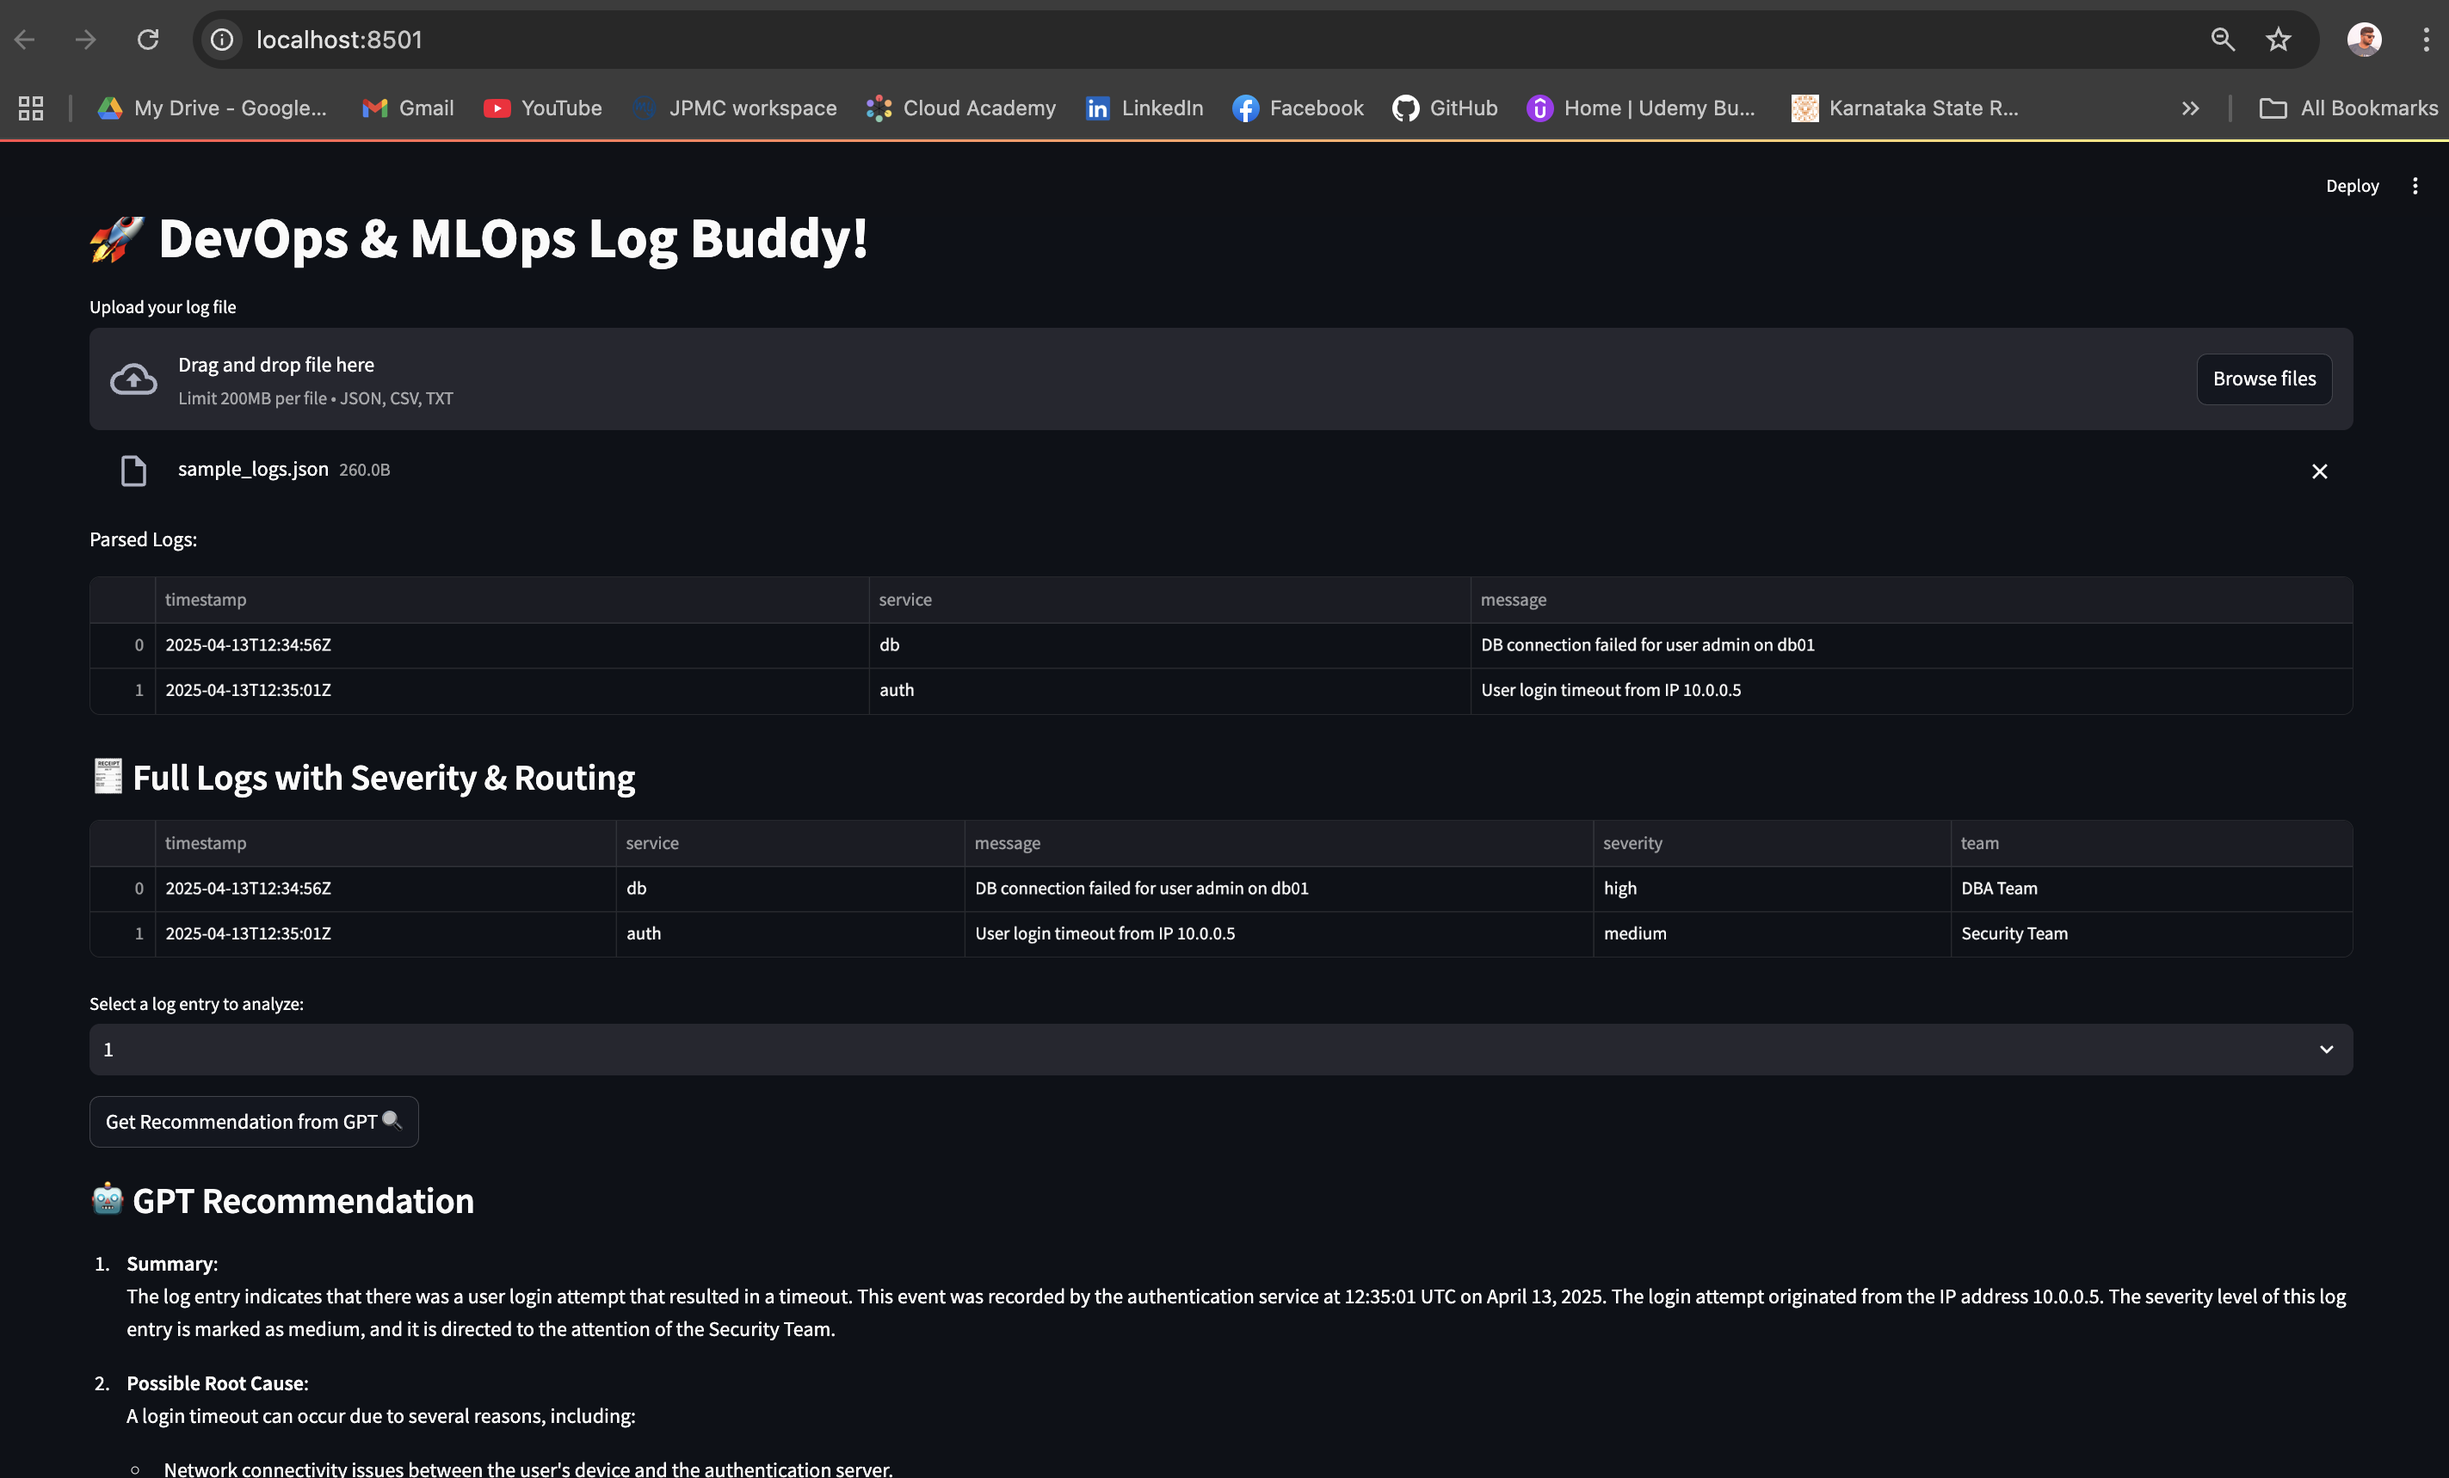
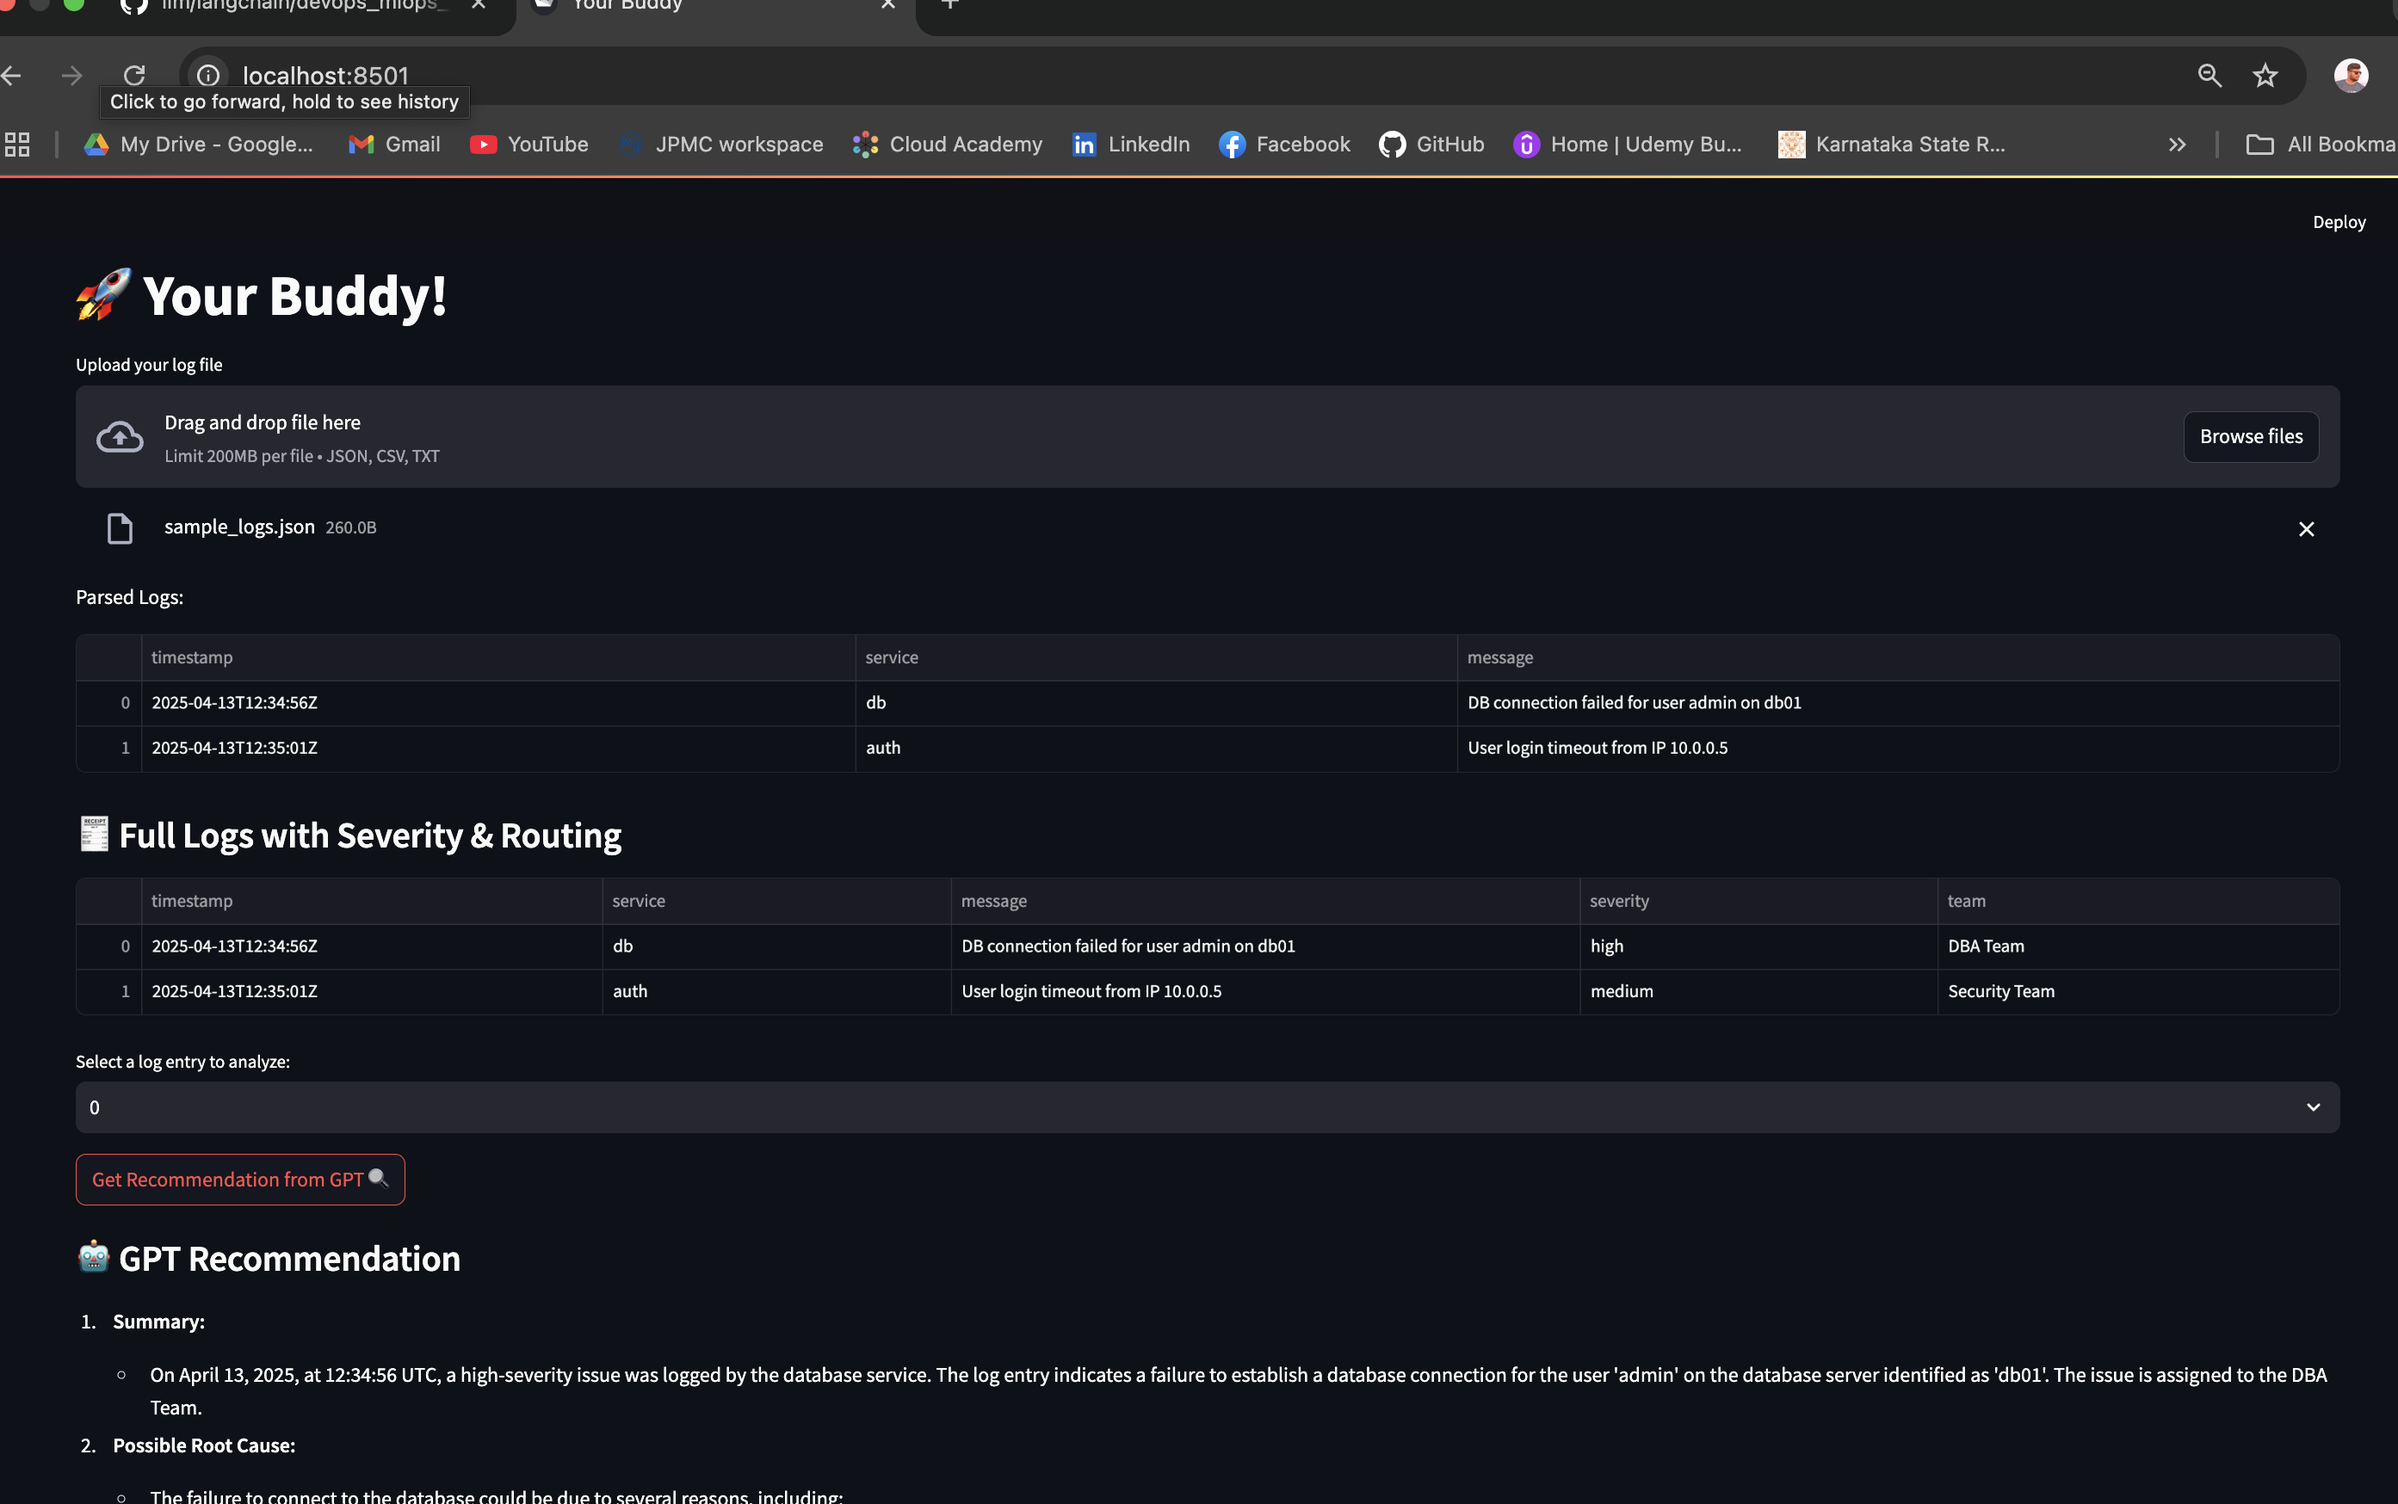
dev mlops buddy app

diff --git a/langchain/devops_mlops_agent/app.py b/langchain/devops_mlops_agent/app.py
@@ -3,8 +3,8 @@ from log_parser import parse_logs
 from analyzer import classify_severity, assign_team
 from openai_agent import get_recommendation
 
-st.set_page_config(page_title="DevOps/MLOps Buddy", layout="wide")
-st.title("🚀 DevOps & MLOps Log Buddy!")
+st.set_page_config(page_title="Your Buddy", layout="wide")
+st.title("🚀 Your Buddy!")
 
 uploaded_file = st.file_uploader("Upload your log file", type=["json", "csv", "txt"])
 

diff --git a/langchain/devops_mlops_agent/Readme.md b/langchain/devops_mlops_agent/Readme.md
@@ -15,5 +15,5 @@
     pip insatll -r requirement.txt
     streamlit run app.py
 
-### Stramlit App
+### Streamlit App
 ![App](img/app.png)
